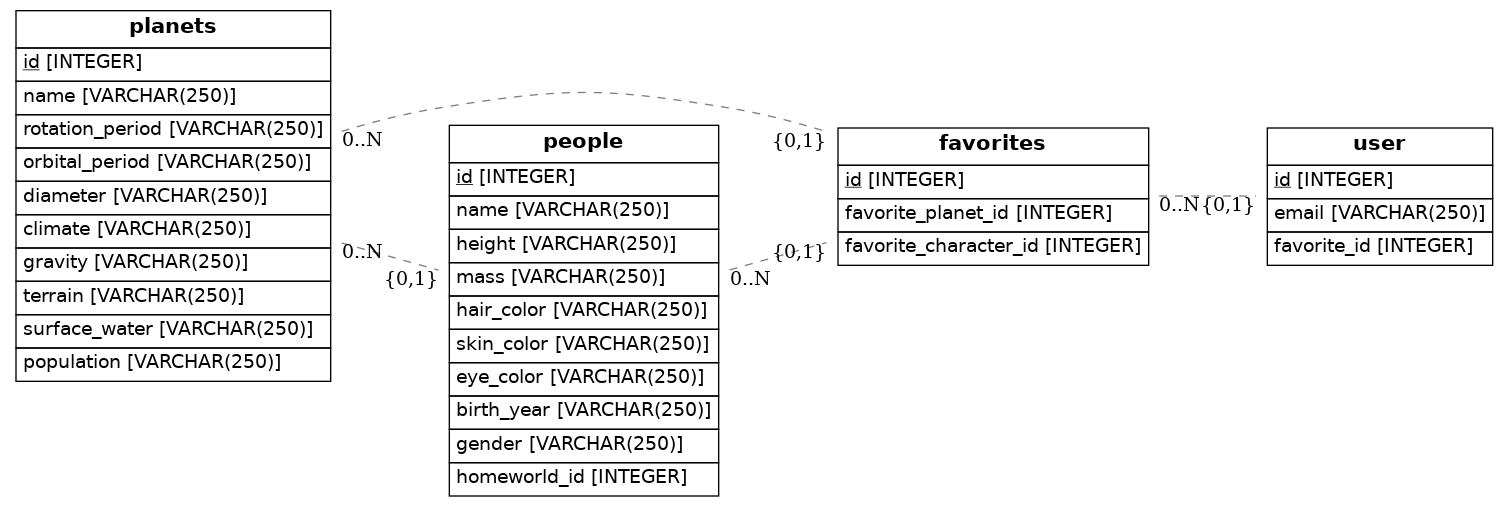
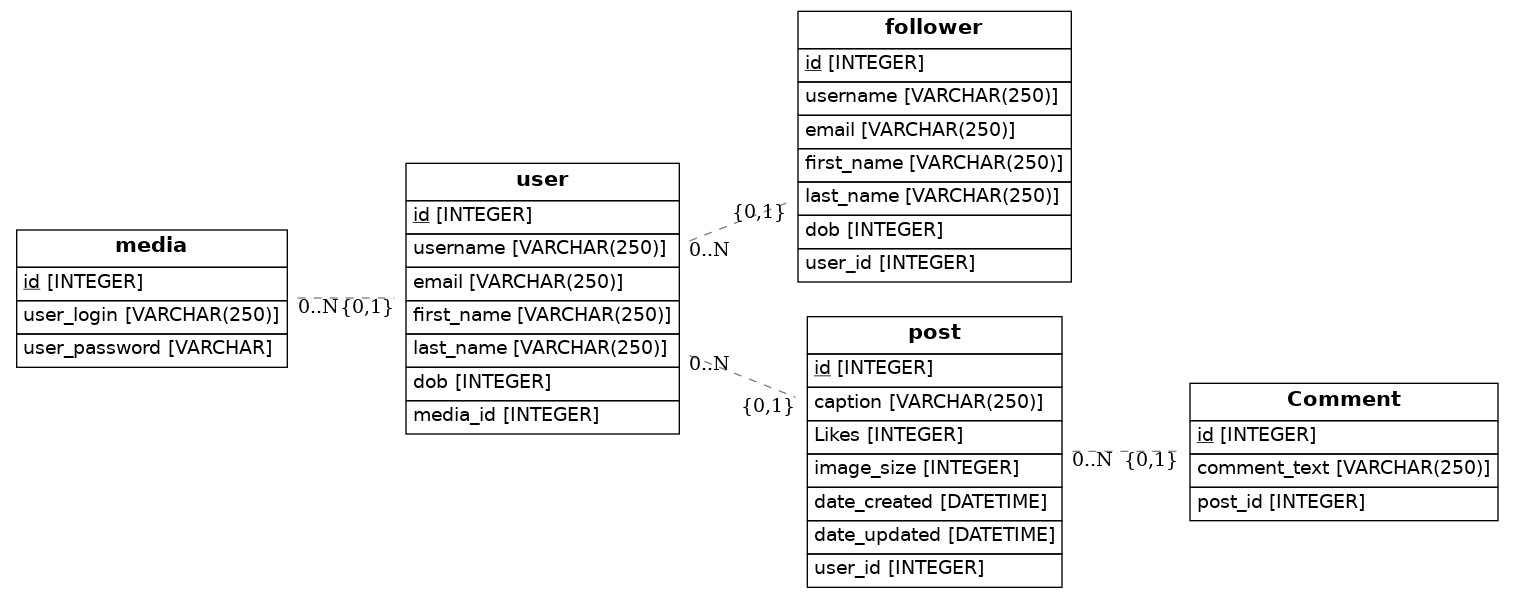
Completed Instagram Data Model

Changed region(s): [[0.0, 0.0, 0.9973, 1.0], [0.8415, 0.2367, 0.9973, 0.2959]]

diff --git a/src/models.py b/src/models.py
@@ -1,6 +1,6 @@
 import os
 import sys
-from sqlalchemy import Column, ForeignKey, Integer, String
+from sqlalchemy import Column, ForeignKey, Integer, String, DateTime
 from sqlalchemy.ext.declarative import declarative_base
 from sqlalchemy.orm import relationship
 from sqlalchemy import create_engine
@@ -8,57 +8,74 @@ from eralchemy import render_er
 
 Base = declarative_base()
 
+class Media(Base):
+    __tablename__ = 'media'
+    id = Column(Integer, primary_key=True)
+    user_login = Column(String(250), unique = True, nullable=False)
+    user_password = Column(String, nullable=False)
+    # user_id = Column(Integer, ForeignKey('user.id'))
+    # user = relationship('User') 
+    
+
+
 class User(Base):
     __tablename__ = 'user'
     id = Column(Integer, primary_key=True)
-    email = Column(String(250), unique = True, nullable=False)
-    favorite_id = Column(Integer, ForeignKey("favorites.id"))
-    favorites = relationship("Favorites")
+    username = Column(String(250), unique= True, nullable = False)
+    email = Column(String(250), unique= True, nullable = False)
+    first_name = Column(String(250), nullable = False)
+    last_name = Column(String(250), nullable = False)
+    dob = Column(Integer, nullable = False)
+    media_id = Column(Integer, ForeignKey('media.id'))
+    media = relationship('Media')
+        
+class Follower(Base):
+    __tablename__ = 'follower'
+    id = Column(Integer, primary_key=True)
+    username = Column(String(250), unique= True, nullable = False)
+    email = Column(String(250), unique= True, nullable = False)
+    first_name = Column(String(250), nullable = False)
+    last_name = Column(String(250), nullable = False)
+    dob = Column(Integer, nullable = False)
+    user_id = Column(Integer, ForeignKey('user.id'))
+    user = relationship('User')
+
+class Post(Base):
+    __tablename__ = 'post'
+    id = Column(Integer, primary_key=True) ## ID of the user who owns this post
+    caption = Column(String(250), nullable=True) ## Photo caption
+    user_id = Column(Integer, nullable=True) #*ID of the user who owns this photo
+    Likes = Column(Integer, nullable=True) ## how many likes the photo has
+    image_size = Column(Integer, nullable=True) ## Image size on server
+    date_created = Column(DateTime, nullable=True) #* When this image was created (cher
+    date_updated = Column(DateTime, nullable=True) ## Last time this image was updated
+    user_id = Column(Integer, ForeignKey('user.id'))
+    user = relationship('User')
+
+class Comment(Base):    
+    __tablename__ = 'Comment'
+    id = Column(Integer, primary_key=True)
+    comment_text = Column(String(250), nullable=True)
+    post_id = Column(Integer, ForeignKey('post.id'))
+    post = relationship('Post')
     
 
 
-class Favorites(Base):
-    __tablename__ = 'favorites'
-    id = Column(Integer, primary_key=True)
-    favorite_planet_id = Column(Integer, ForeignKey("planets.id"))
-    favorite_planet = relationship("Planets")
-    favorite_character_id = Column(Integer, ForeignKey("people.id"))
-    favorite_character = relationship("People")
-  
-    
 
-class People(Base):
-    __tablename__ = 'people'
-    # Here we define columns for the table person
-    # Notice that each column is also a normal Python instance attribute.
-    id = Column(Integer, primary_key=True)
-    name = Column(String(250))
-    height = Column(String(250))
-    mass = Column(String(250))
-    hair_color = Column(String(250))
-    skin_color = Column(String(250), nullable=True)
-    eye_color = Column(String(250), nullable=True)
-    birth_year = Column(String(250))
-    gender = Column(String(250), nullable=True)
-    homeworld_id = Column(Integer, ForeignKey("planets.id"))
-    homeworld = relationship("Planets")
-
-
-
-class Planets(Base):
-    __tablename__ = 'planets'
-    # Here we define columns for the table address.
-    # Notice that each column is also a normal Python instance attribute.
-    id = Column(Integer, primary_key=True)
-    name = Column(String(250))
-    rotation_period = Column(String(250))
-    orbital_period = Column(String(250))
-    diameter = Column(String(250))
-    climate = Column(String(250))
-    gravity = Column(String(250))
-    terrain = Column(String(250))
-    surface_water = Column(String(250))
-    population = Column(String(250))
+# class Planets(Base):
+#     __tablename__ = 'planets'
+#     # Here we define columns for the table address.
+#     # Notice that each column is also a normal Python instance attribute.
+#     id = Column(Integer, primary_key=True)
+#     name = Column(String(250))
+#     rotation_period = Column(String(250))
+#     orbital_period = Column(String(250))
+#     diameter = Column(String(250))
+#     climate = Column(String(250))
+#     gravity = Column(String(250))
+#     terrain = Column(String(250))
+#     surface_water = Column(String(250))
+#     population = Column(String(250))
 
     def to_dict(self):
         return {}
